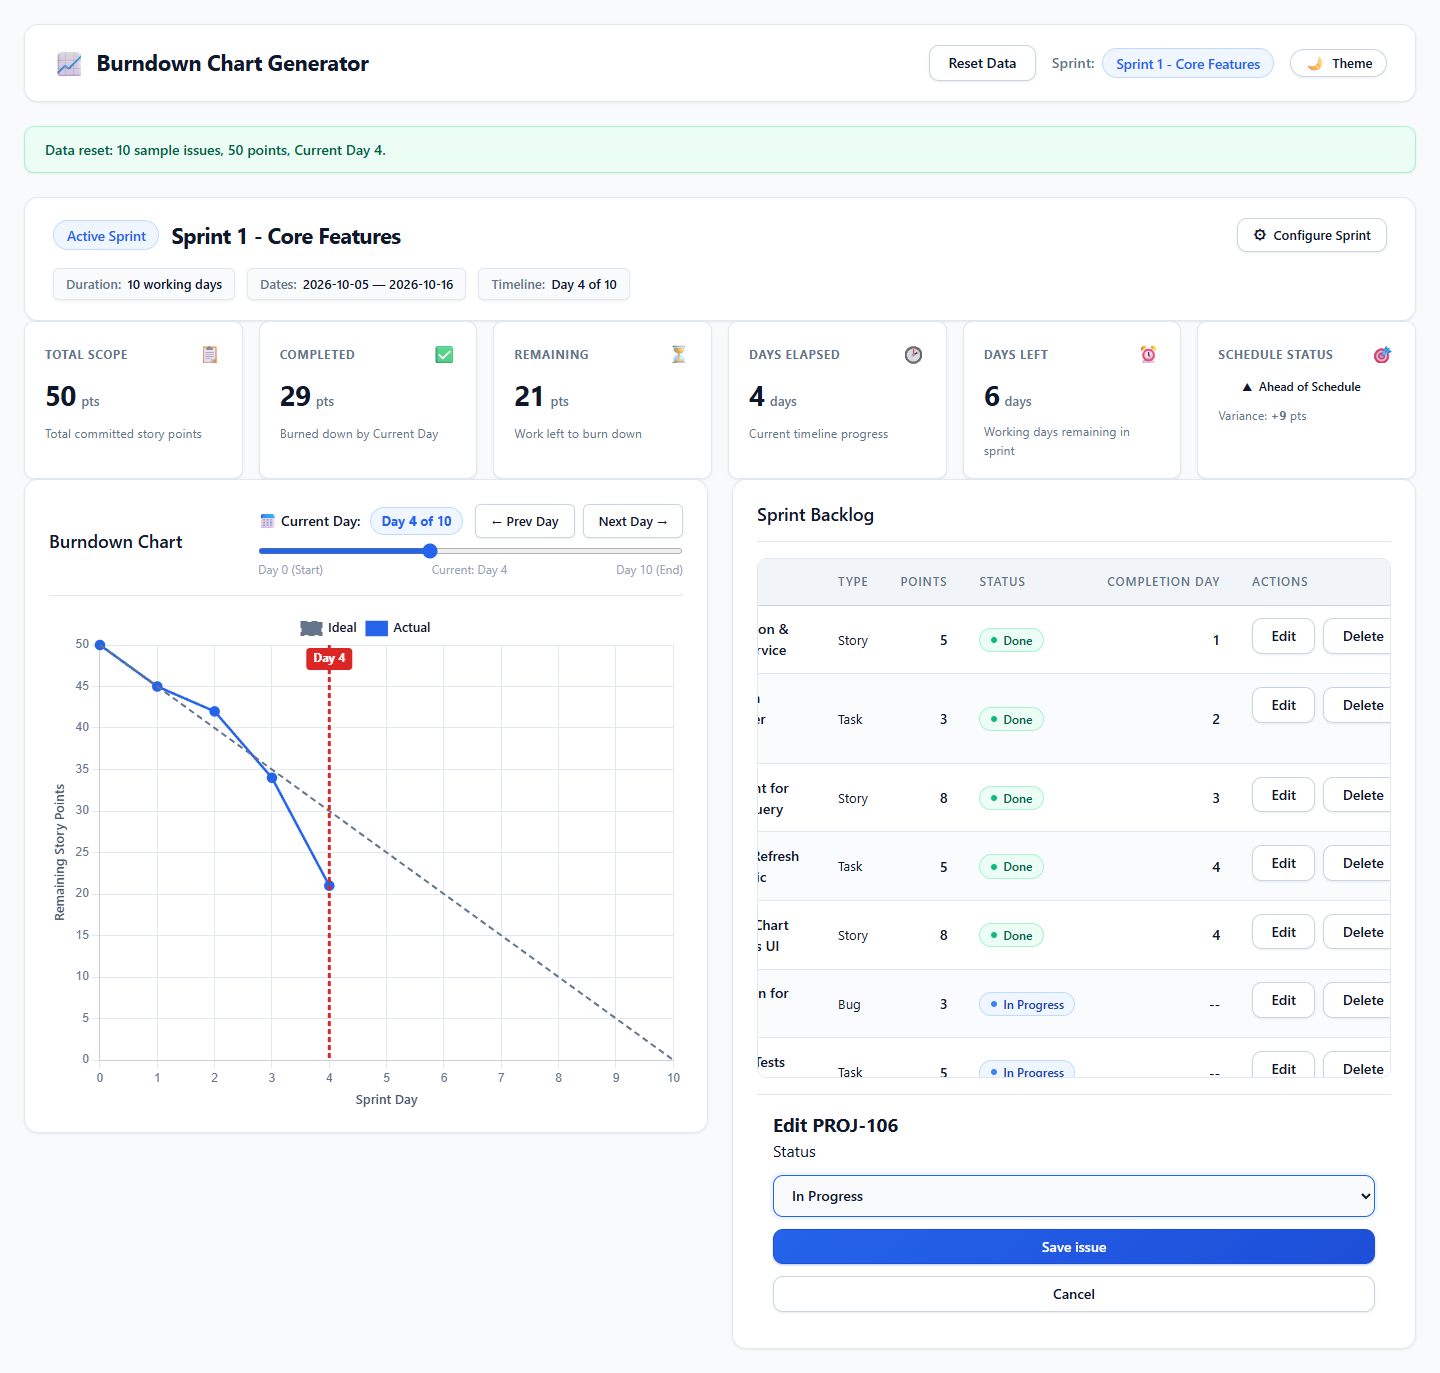
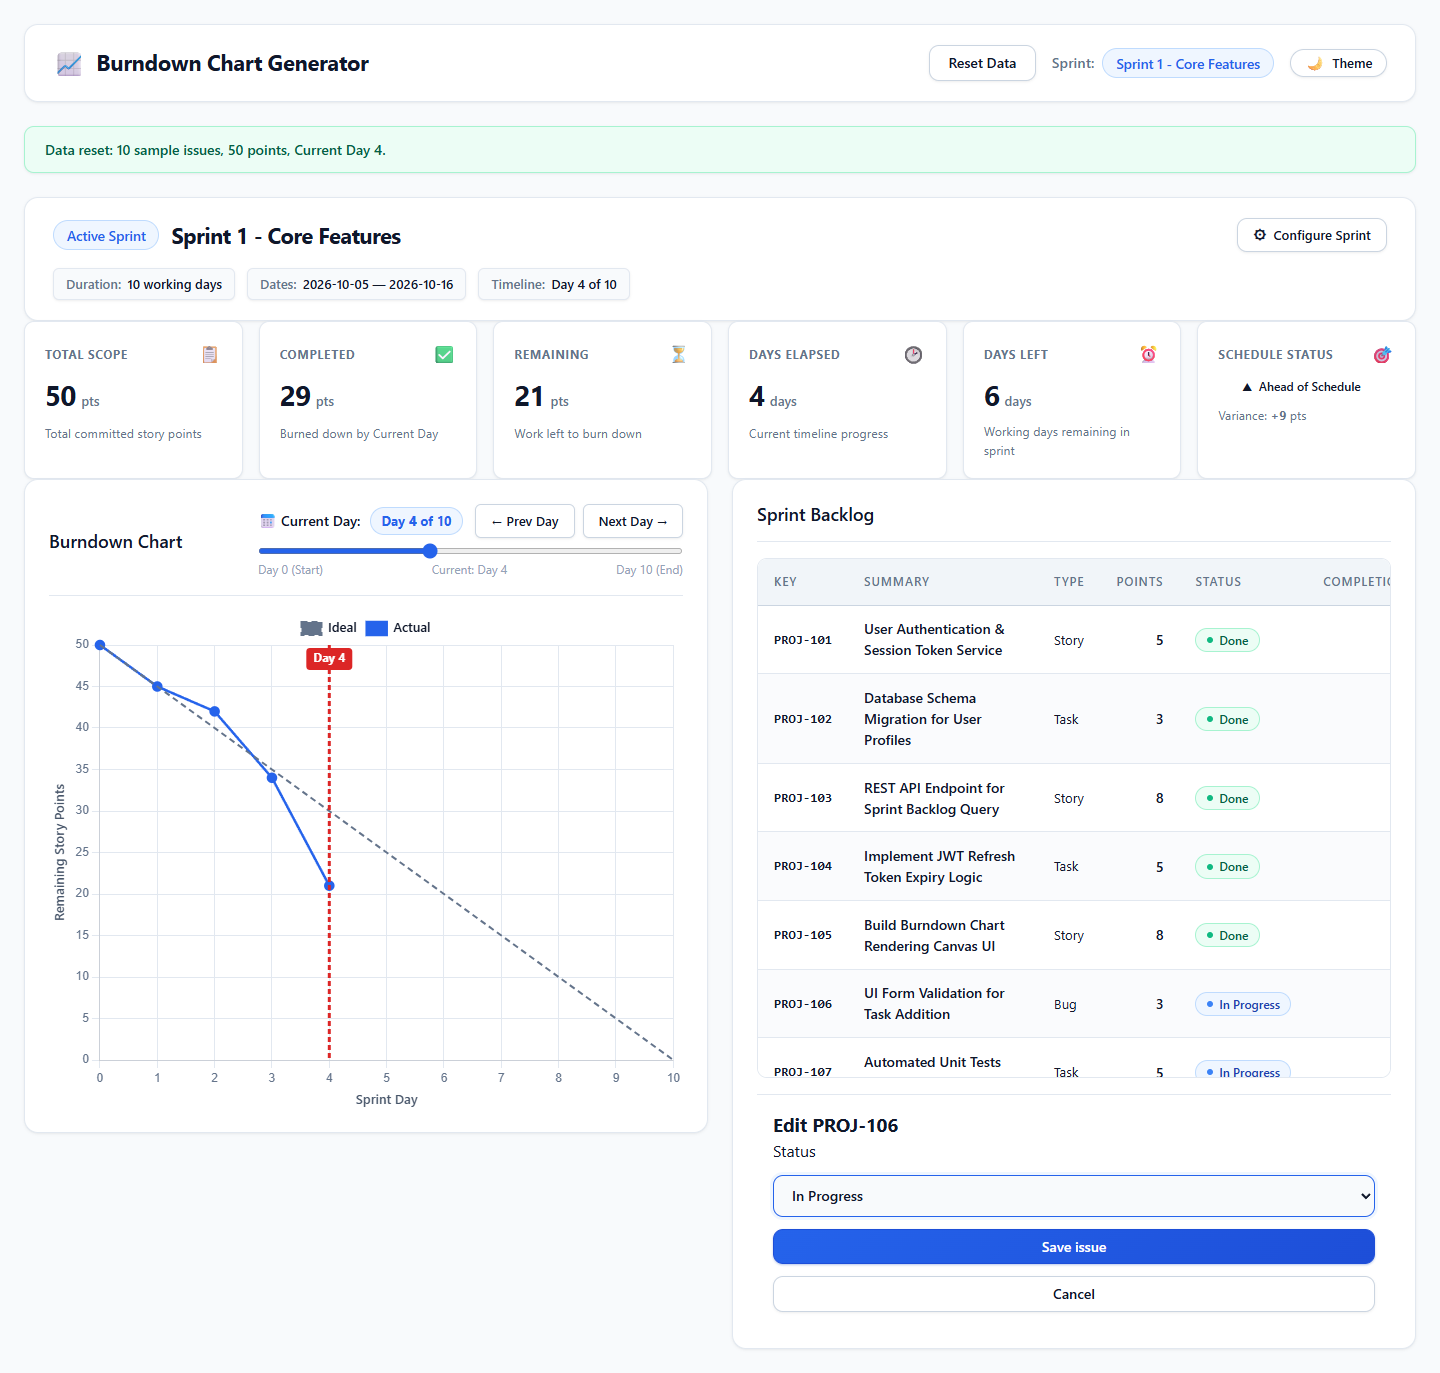
BDC-F-007: verify combined workflow with teammate sprint 2 PR

diff --git a/docs/test-plan/sprint2_naveen_checklist.md b/docs/test-plan/sprint2_naveen_checklist.md
@@ -30,6 +30,11 @@ Verified on 28 October 2026. Scope follows the GitHub issues assigned to
 - [x] Startup and Reset Data work when the `localStorage` getter throws.
 - [x] No document-wide horizontal overflow at 1024, 1440 and 1920px; backlog can scroll internally.
 - [x] Visually reviewed [workflow screenshot](evidence/naveen-sprint2-workflow.png).
+- [x] Temporary merge with teammate PR #38 at `9eada12` is conflict-free:
+      **175 tests across 50 suites pass**. The Chrome browser checks also pass
+      on that combined tree, including adding a hostile-text issue through the
+      teammate's form, editing it to Done, deleting it, and resetting.
+      This is an isolated integration check; PR #38 has not been merged into this branch.
 
 The optional browser script requires a separately installed Playwright package and Chrome
 (or Edge via `BROWSER_CHANNEL=msedge`). Set `NODE_PATH` to that package directory if it
